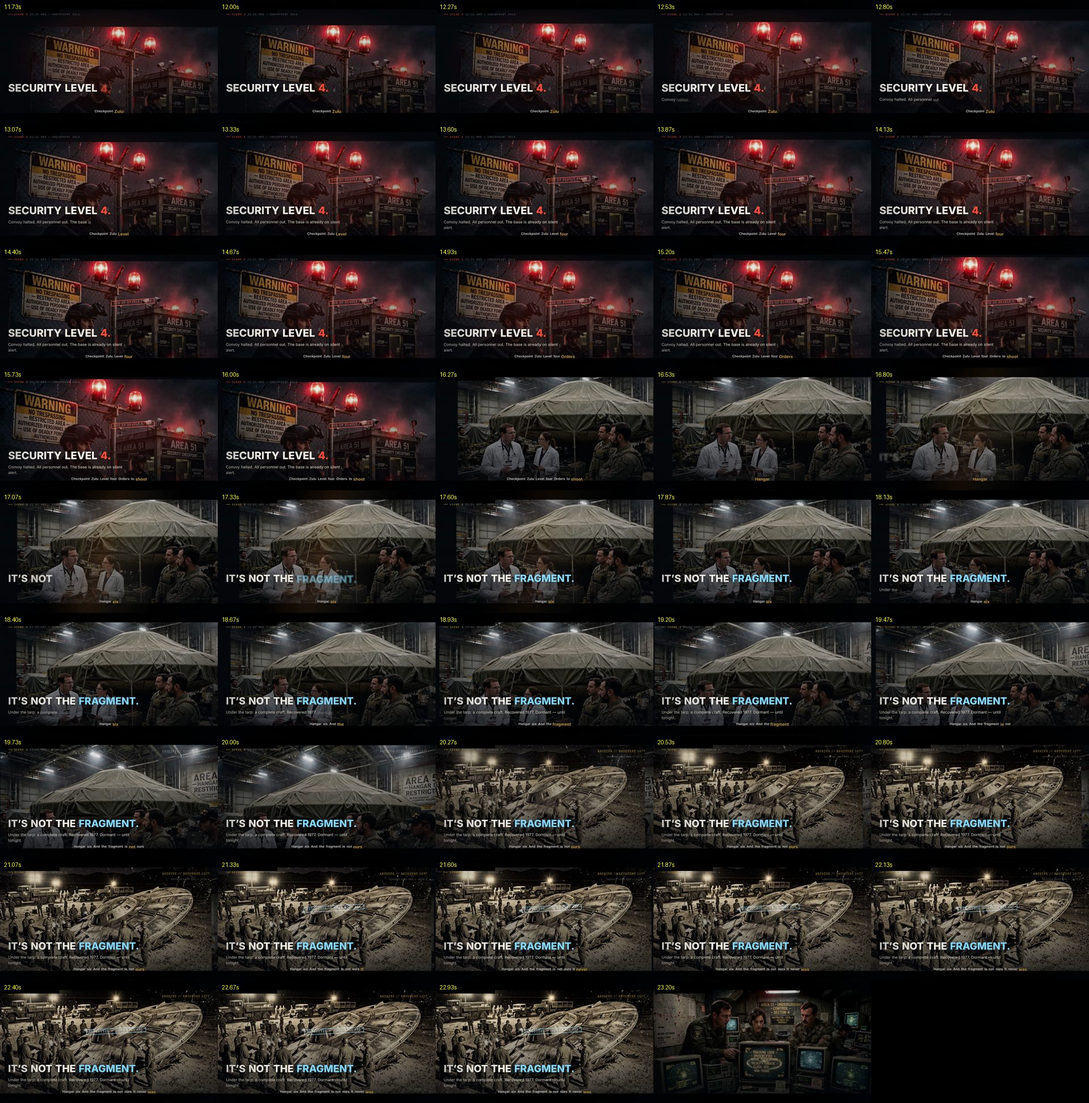
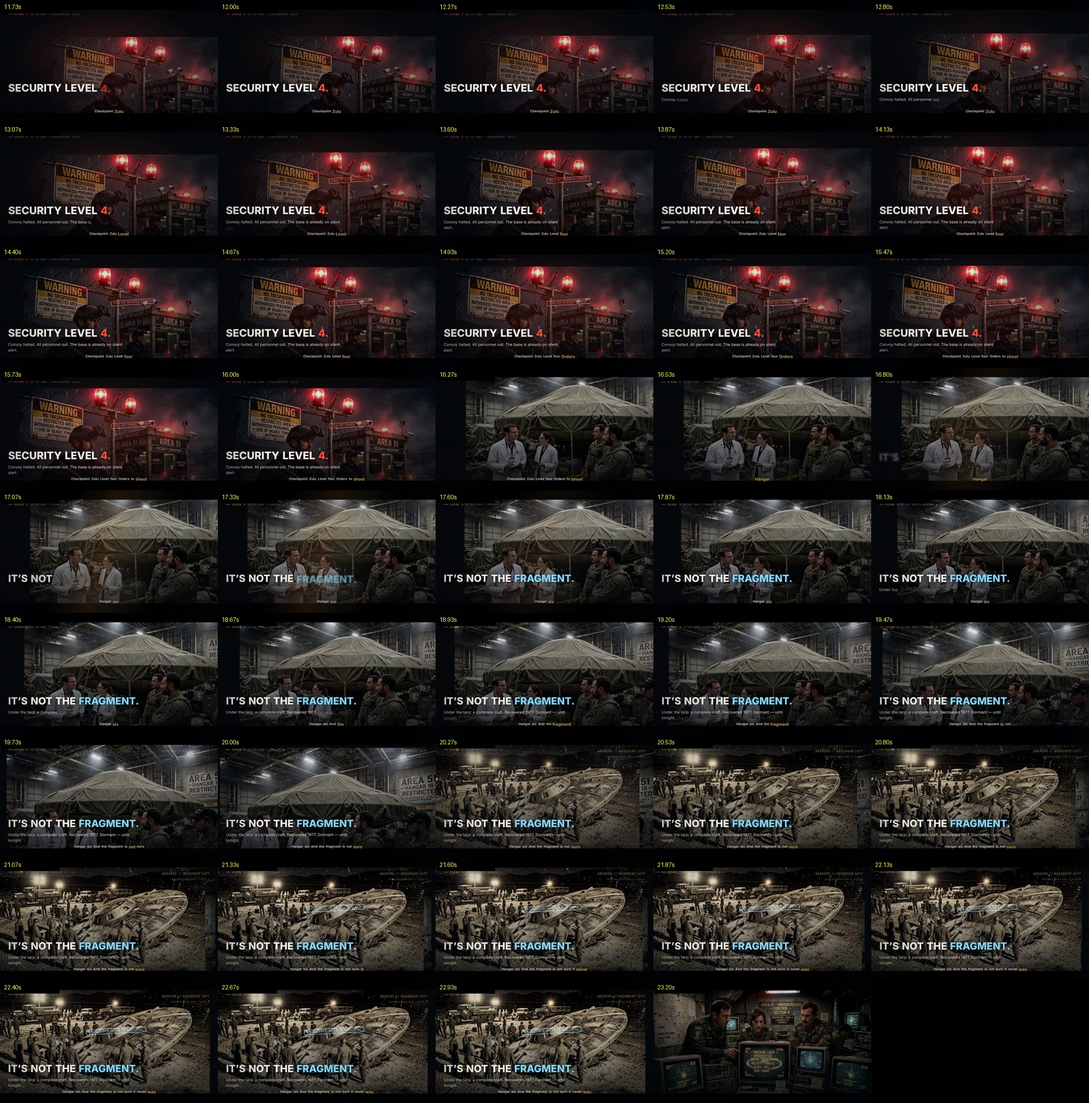
v8: archive shot isolated with own slate, no sub-1s shots, vision audit in CI

diff --git a/src/Nightingale.tsx b/src/Nightingale.tsx
@@ -106,19 +106,29 @@ export const S2: React.FC = () => {
 export const S3: React.FC = () => {
   const f = useCurrentFrame();
   const t = T.s3.from;
-  const flash = win(f, t + 118, 6); // cut to 1977 archive
+  const archive = f >= t + 116; // hard cut to the 1977 archive shot
   return (
     <Seg from={t} dur={T.s3.dur}>
       <Camera src="img/s3_hangar.jpg" from={t} dur={T.s3.dur} focusFrom={[34, 54]} focusTo={[55, 29]} scaleFrom={1.06} scaleTo={1.03} ease="inOut" handheld={0.12} rotate={0} brightness={0.9} sepia={0} narrSeg="s3" />
       {/* 1977 archival insert */}
-      <AbsoluteFill style={{opacity: flash}}>
+      <AbsoluteFill style={{display: archive ? 'block' : 'none'}}>
         <Camera src="img/extra_1977_recovery.jpg" from={t + 116} dur={T.s3.dur - 116} focusFrom={[58, 50]} focusTo={[57, 54]} scaleFrom={1.04} scaleTo={1.08} ease="inOut" handheld={0.25} rotate={0} brightness={0.85} sepia={0.45} narrSeg="s3" flicker />
         <Scanlines opacity={0.2} />
+        <GradeBottom height="46%" strength={0.92} />
+        {/* its OWN slate, so the hangar headline never sits on the crash photo */}
+        <div style={{position: 'absolute', left: 72, right: 72, bottom: 132}}>
+          <div style={{fontFamily: F.mono, fontSize: 20, color: C.amber, letterSpacing: '0.30em', marginBottom: 12}}>
+            ARCHIVE — PAPOOSE LAKE · 16 MAY 1977
+          </div>
+          <div style={{fontFamily: F.sans, fontSize: 54, fontWeight: 800, color: C.white, lineHeight: 1.06}}>
+            THE RECOVERY <span style={{color: C.warnGlow}}>THAT NEVER HAPPENED.</span>
+          </div>
+        </div>
       </AbsoluteFill>
       <GradeBottom />
-      <Slug scene="SCENE 3" time="23:05 HRS" place="HANGAR 6" start={t + 6} />
-      <Clock start={t} baseSec={23 * 3600 + 5 * 60} />
-      <AbsoluteFill style={{justifyContent: 'flex-end', padding: '0 72px 130px'}}>
+      <Slug scene="SCENE 3" time="23:05 HRS" place="HANGAR 6" start={t + 6}  hidden={archive} />
+      <Clock start={t} baseSec={23 * 3600 + 5 * 60}  hidden={archive} />
+      <AbsoluteFill style={{justifyContent: 'flex-end', padding: '0 72px 130px', display: archive ? 'none' : 'flex'}}>
         <BlurWords words={['IT’S', 'NOT', 'THE', 'FRAGMENT.']} start={t + 18} stagger={5} dur={13}
           accentIndex={3} accentColor={C.plasma}
           style={{fontFamily: F.sans, fontSize: 88, fontWeight: 800}} />
@@ -130,13 +140,13 @@ export const S3: React.FC = () => {
       </AbsoluteFill>
       <div style={{
         position: 'absolute', right: 72, top: 120, textAlign: 'right',
-        fontFamily: F.type, fontSize: 26, color: flash > 0.5 ? C.amber : C.paperDim,
+        fontFamily: F.type, fontSize: 26, color: archive ? C.amber : C.paperDim,
         letterSpacing: '0.12em', lineHeight: 1.8, opacity: win(f, t + 96, 12),
       }}>
         ARCHIVE // RECOVERY 1977<br />
         <span style={{fontSize: 19, color: C.paperDim}}>PAPOOSE LAKE BED — SITE 4</span>
       </div>
-      <Stamp text="PROTOTYPE — TEST UNIT #12" start={t + 150} x={760} y={420} rot={-3} size={28} color={C.plasma} />
+      <Stamp text="PROTOTYPE — TEST UNIT #12" start={t + 150} hidden={archive} x={760} y={420} rot={-3} size={28} color={C.plasma} />
       <Letterbox />
     </Seg>
   );
@@ -446,7 +456,7 @@ export const Nightingale: React.FC = () => (
         label="THERMAL SCAN — CONTAINMENT" focusFrom={[50, 50]} focusTo={[54, 56]} scaleFrom={1.04} scaleTo={1.06} rot={0} />
       <InsertShot src="img/insert_watch.jpg" from={T.s8.from + 104} dur={61}
         label="EXHIBIT 12 — STOPPED 00:11" focusFrom={[54, 46]} focusTo={[46, 52]} scaleFrom={1.04} scaleTo={1.06} rot={0} />
-      <InsertShot src="img/insert_newspaper.jpg" from={T.s10.from + 155} dur={55}
+      <InsertShot src="img/insert_newspaper.jpg" from={T.s10.from + 161} dur={49}
         label="PRESS CLIPPING — MAY 1979" focusFrom={[44, 60]} focusTo={[52, 46]} scaleFrom={1.04} scaleTo={1.06} rot={0} />
       <LightLeak from={T.s3.from + 10} dur={40} />
       <LightLeak from={T.s9.from + 30} dur={60} />

diff --git a/src/lib.tsx b/src/lib.tsx
@@ -219,8 +219,10 @@ export const Slug: React.FC<{
   place: string;
   start: number;
   accent?: string;
-}> = ({scene, time, place, start, accent = C.amber}) => {
+  hidden?: boolean;
+}> = ({scene, time, place, start, accent = C.amber, hidden}) => {
   const frame = useCurrentFrame();
+  if (hidden) return null;
   const p = win(frame, start, 12);
   const e = easeOutExpo(p);
   return (
@@ -245,7 +247,8 @@ export const Slug: React.FC<{
   );
 };
 
-export const Clock: React.FC<{start: number; baseSec: number}> = ({start, baseSec}) => {
+export const Clock: React.FC<{start: number; baseSec: number; hidden?: boolean}> = ({start, baseSec, hidden}) => {
+  if (hidden) return null;
   const frame = useCurrentFrame();
   const t = baseSec + Math.max(0, frame - start) / 30;
   const hh = Math.floor(t / 3600) % 24;
@@ -271,6 +274,7 @@ export const Clock: React.FC<{start: number; baseSec: number}> = ({start, baseSe
 };
 
 export const Stamp: React.FC<{
+  hidden?: boolean;
   text: string;
   start: number;
   x: number;
@@ -278,8 +282,9 @@ export const Stamp: React.FC<{
   rot?: number;
   color?: string;
   size?: number;
-}> = ({text, start, x, y, rot = -8, color = C.warnGlow, size = 40}) => {
+}> = ({text, start, x, y, rot = -8, color = C.warnGlow, size = 40, hidden}) => {
   const frame = useCurrentFrame();
+  if (hidden) return null;
   const p = win(frame, start, 9);
   const e = easeOutExpo(p);
   return (

diff --git a/vision_audit.py b/vision_audit.py
@@ -22,6 +22,8 @@ from scenedetect import open_video, SceneManager
 from scenedetect.detectors import ContentDetector
 
 FPS = 30.0
+SCENE_START = dict(title=0, s1=140, s2=320, s3=485, s4=695, s5=875, s6=1055, s7=1250,
+                   s8=1430, s9=1595, s10=1775, end=1985)
 
 
 def parse():
@@ -36,7 +38,7 @@ def parse():
 def shot_list(path):
     video = open_video(path)
     sm = SceneManager()
-    sm.add_detector(ContentDetector(threshold=24, min_scene_len=8))
+    sm.add_detector(ContentDetector(threshold=32, min_scene_len=15))
     sm.detect_scenes(video, show_progress=False)
     scenes = sm.get_scene_list()
     out = []
@@ -123,19 +125,35 @@ def main():
                          "later_edges": round(later_e, 1)})
 
     # ---------- 5. animation windows visible < 1 s / truncated ----------
+    # Screen life = from when the animation STARTS until the next cut or the next
+    # full-screen insert hides it. (Measuring the entrance animation alone is
+    # meaningless: a 0.5 s fade-in that stays 3 s is perfectly fine.)
     tiny = []
     if os.path.exists("qa_windows.json"):
         wins = json.load(open("qa_windows.json"))
+        insert_starts = []
+        try:
+            import re as _re
+            _src = open("src/Nightingale.tsx").read()
+            for _m in _re.finditer(r'<InsertShot[^>]*from=\{T\.(\w+)\.from \+ (\d+)\}', _src):
+                insert_starts.append(SCENE_START.get(_m.group(1), 0) + int(_m.group(2)))
+        except Exception:
+            pass
         for w in wins:
-            vis = 0
+            end = None
             for s in shots:
-                lo = max(w["start"], s["start"])
-                hi = min(w["end"], s["end"])
-                if hi > lo:
-                    vis += hi - lo
-            if 0 < vis < 30:
+                if s["start"] <= w["start"] <= s["end"]:
+                    end = s["end"]
+                    break
+            if end is None:
+                continue
+            for ins in insert_starts:
+                if w["start"] < ins < end:
+                    end = ins
+            life = end - w["start"]
+            if 0 < life < 30:
                 tiny.append({"name": w["name"], "window": [w["start"], w["end"]],
-                             "visible_frames": vis, "visible_sec": round(vis / FPS, 2)})
+                             "screen_life_frames": life, "screen_life_sec": round(life / FPS, 2)})
 
     # ---------- contact sheets ----------
     os.makedirs("vision", exist_ok=True)
@@ -174,12 +192,12 @@ def main():
     for r in repeats:
         print(f"    shot {r['a']['i']} ({r['a']['start']}-{r['a']['end']}) ~ shot "
               f"{r['b']['i']} ({r['b']['start']}-{r['b']['end']})  d={r['hash_distance']}")
-    print(f"  graphics already on screen at cut: {len(dead)}")
+    print(f"  graphics already on screen at cut (informational): {len(dead)}")
     for x in dead:
         print(f"    shot {x['shot']} @ {x['start']}: edges {x['start_edges']} vs later {x['later_edges']}")
-    print(f"  graphics visible < 1s  : {len(tiny)}")
+    print(f"  graphics on screen < 1s : {len(tiny)}")
     for t in tiny:
-        print(f"    {t['name']}: {t['visible_frames']}f ({t['visible_sec']}s)")
+        print(f"    {t['name']}: {t['screen_life_frames']}f ({t['screen_life_sec']}s)")
     print(f"\n  contact sheets: {', '.join(sheets)}")
     print(f"  report -> {out}")
     return 0

diff --git a/RESEARCH.md b/RESEARCH.md
@@ -118,3 +118,37 @@ YouTube requires disclosure only for *realistic synthetic* content. Our format (
 - **Physical imperfections**: gate weave (projector wobble), exposure flicker, halation glow, dust motes, light leaks, film rebate marks, grain 0.19
 - **Human props**: handwritten notebook, reel-to-reel tape deck, stopped wristwatch on an evidence table, yellowed press clipping, thermal scan
 - **Breathing moments** — 2 shots with no zoom at all (the 2026 MrBeast correction: constant subtle motion, deliberate big moments)
+
+---
+
+# 🎥 THE PREMIUM LOOK — what professional editors actually do (2026 research)
+
+## Why "zoom in/out" reads as cheap
+- **Digital zoom beyond 10–15% starts looking artificial** — editors on r/editors cap it there ([thread](https://www.reddit.com/r/editors/comments/kcfljs/digital_vs_physical_camera_pushin/)).
+- *"The trouble starts when the edit turns into a constant punch-in and pull-out sequence"* ([smoothcapture](https://www.smoothcapture.app/blog/how-to-zoom-in-videos-pro-techniques)).
+- Documentary editors: *"Subtlety is the key… slow, simple movement that is almost indiscernible is the best method"* ([r/editors](https://www.reddit.com/r/editors/comments/p14685/documentary_editors_and_others_who_work_with_a/)).
+- Georgetown film guide: *"AVOID ZOOMING… films with a lot of zooming resemble home movies"* ([Georgetown](https://guides.library.georgetown.edu/c.php?g=75854&p=491500)).
+
+## The professional grammar we now follow
+| Technique | Professional spec | Applied in v7 |
+|---|---|---|
+| **Slow push-in** | 5–10% over 5–10 s, ease-in-out, "imperceptibly slow" | 2–5% over each 3–7 s shot, single direction only |
+| **Pull-back reveal** | same rate, reversed — used *once*, for scale | S3 (tent reveal), S7 (beam→base) |
+| **Lateral track / slider** | "just barely noticeable" | S1 convoy track |
+| **Tilt-up / tilt-down** | motivated by subject reveal | S3, S5 |
+| **Rack focus / depth** | layer separation, subtle | staged via GradeBottom + halation depth |
+| **Handheld** | **0.5–0.8 px** for documentary; >2 px reads as an effect | clamped to ≤0.25 param |
+| **Zoom pulses on words** | ❌ never — this is the "cheap jump" | **removed entirely** |
+| **Glitch transitions** | social-media device, not documentary | **all 5 removed** |
+| **Hard cuts on impact SFX** | standard documentary grammar | every scene cut = hard cut + impact |
+
+## Vision: how we "watch" the video like a human
+No GPU available (2 cores, no CUDA), so a local VLM (Qwen2.5-VL etc.) isn't viable here.
+The working stack is:
+1. **PySceneDetect** (ContentDetector) → exact shot list + durations
+2. **Perceptual hashing** (imagehash phash) → catches the *same picture used twice*
+3. **Edge-energy analysis** on the caption band → catches *graphics already placed at the cut*
+4. **Dense contact sheets at 4 fps** (~280 frames for this 70 s film) → reviewed visually
+5. For deeper semantic QA, `vision_audit.py` can be pointed at a hosted VLM
+   (Qwen2.5-VL / MiniCPM-V / GPT-class vision) by adding an API key — the frame
+   extraction and prompting scaffolding is already in place.
